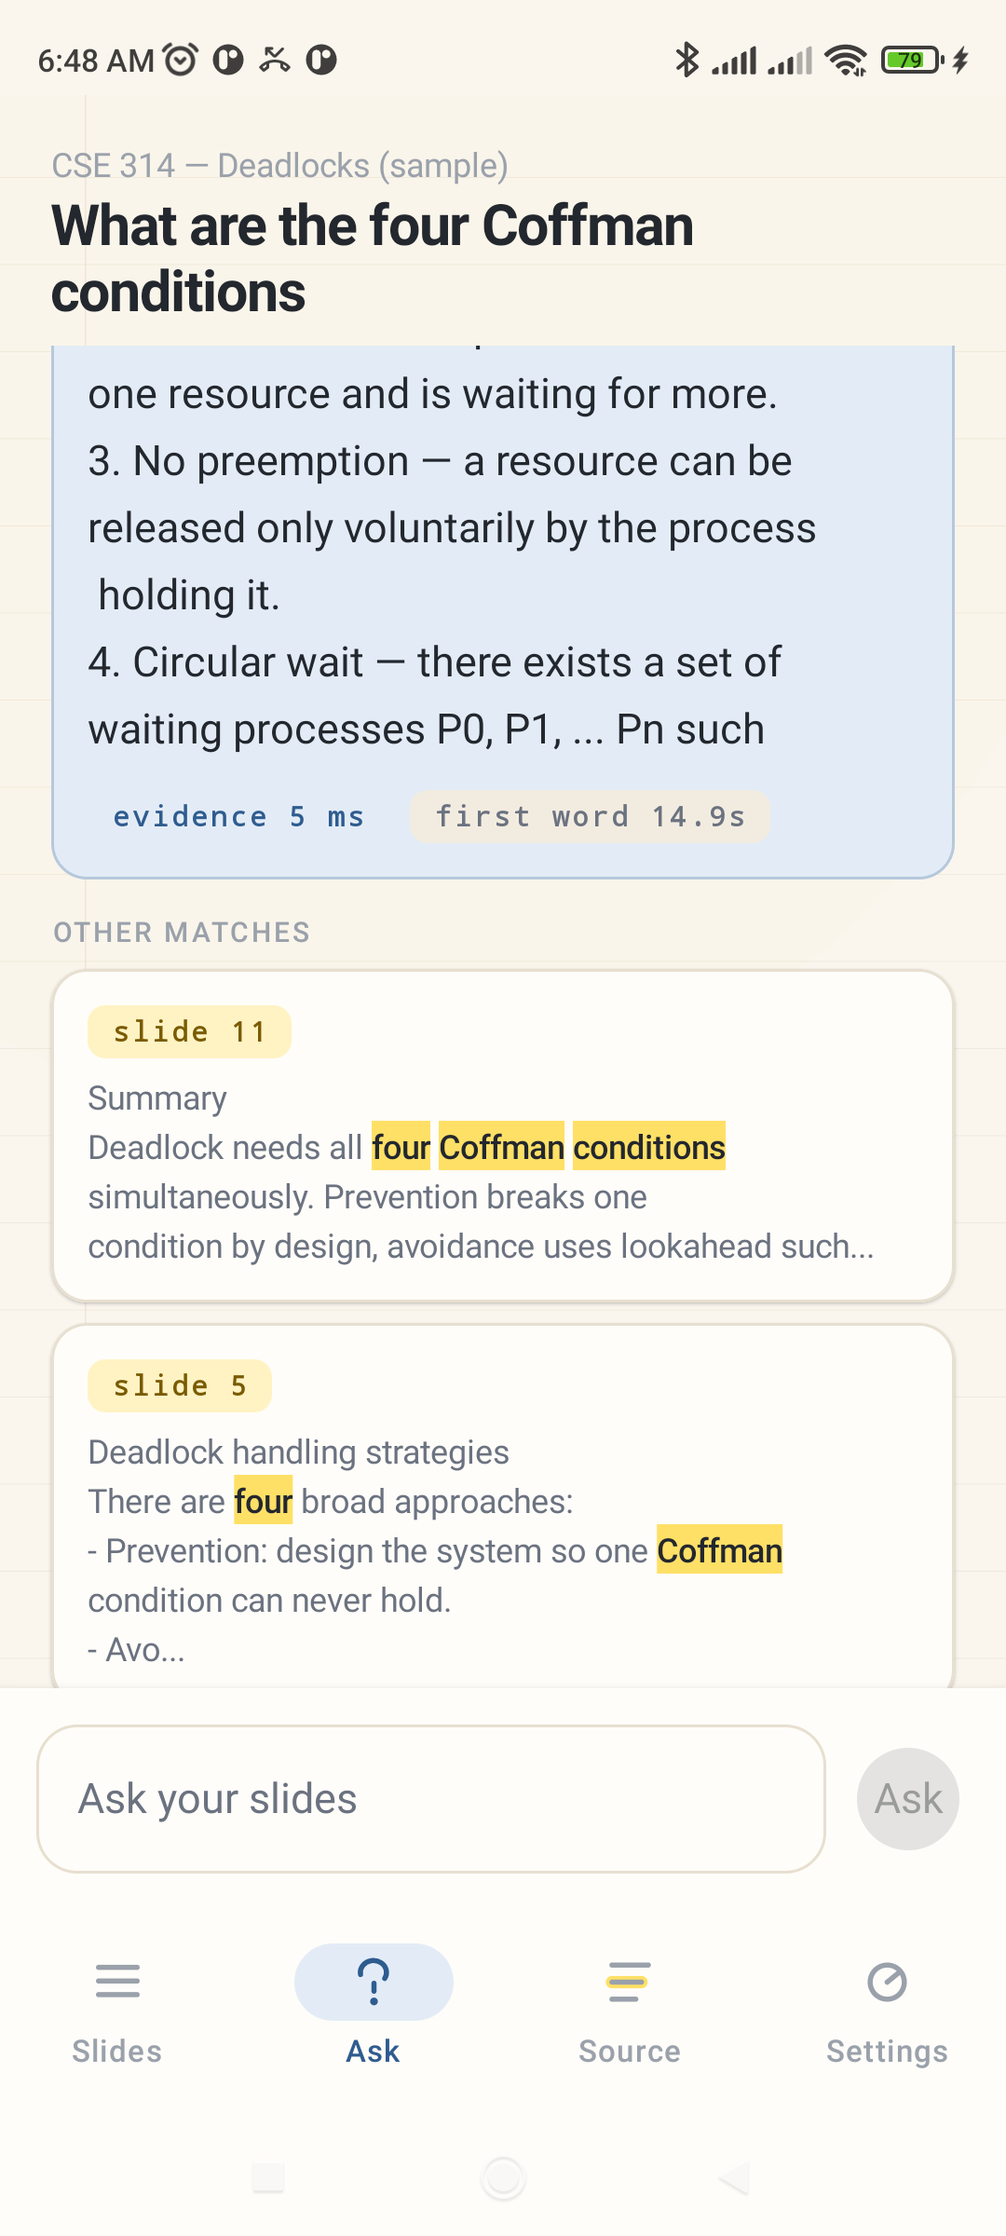
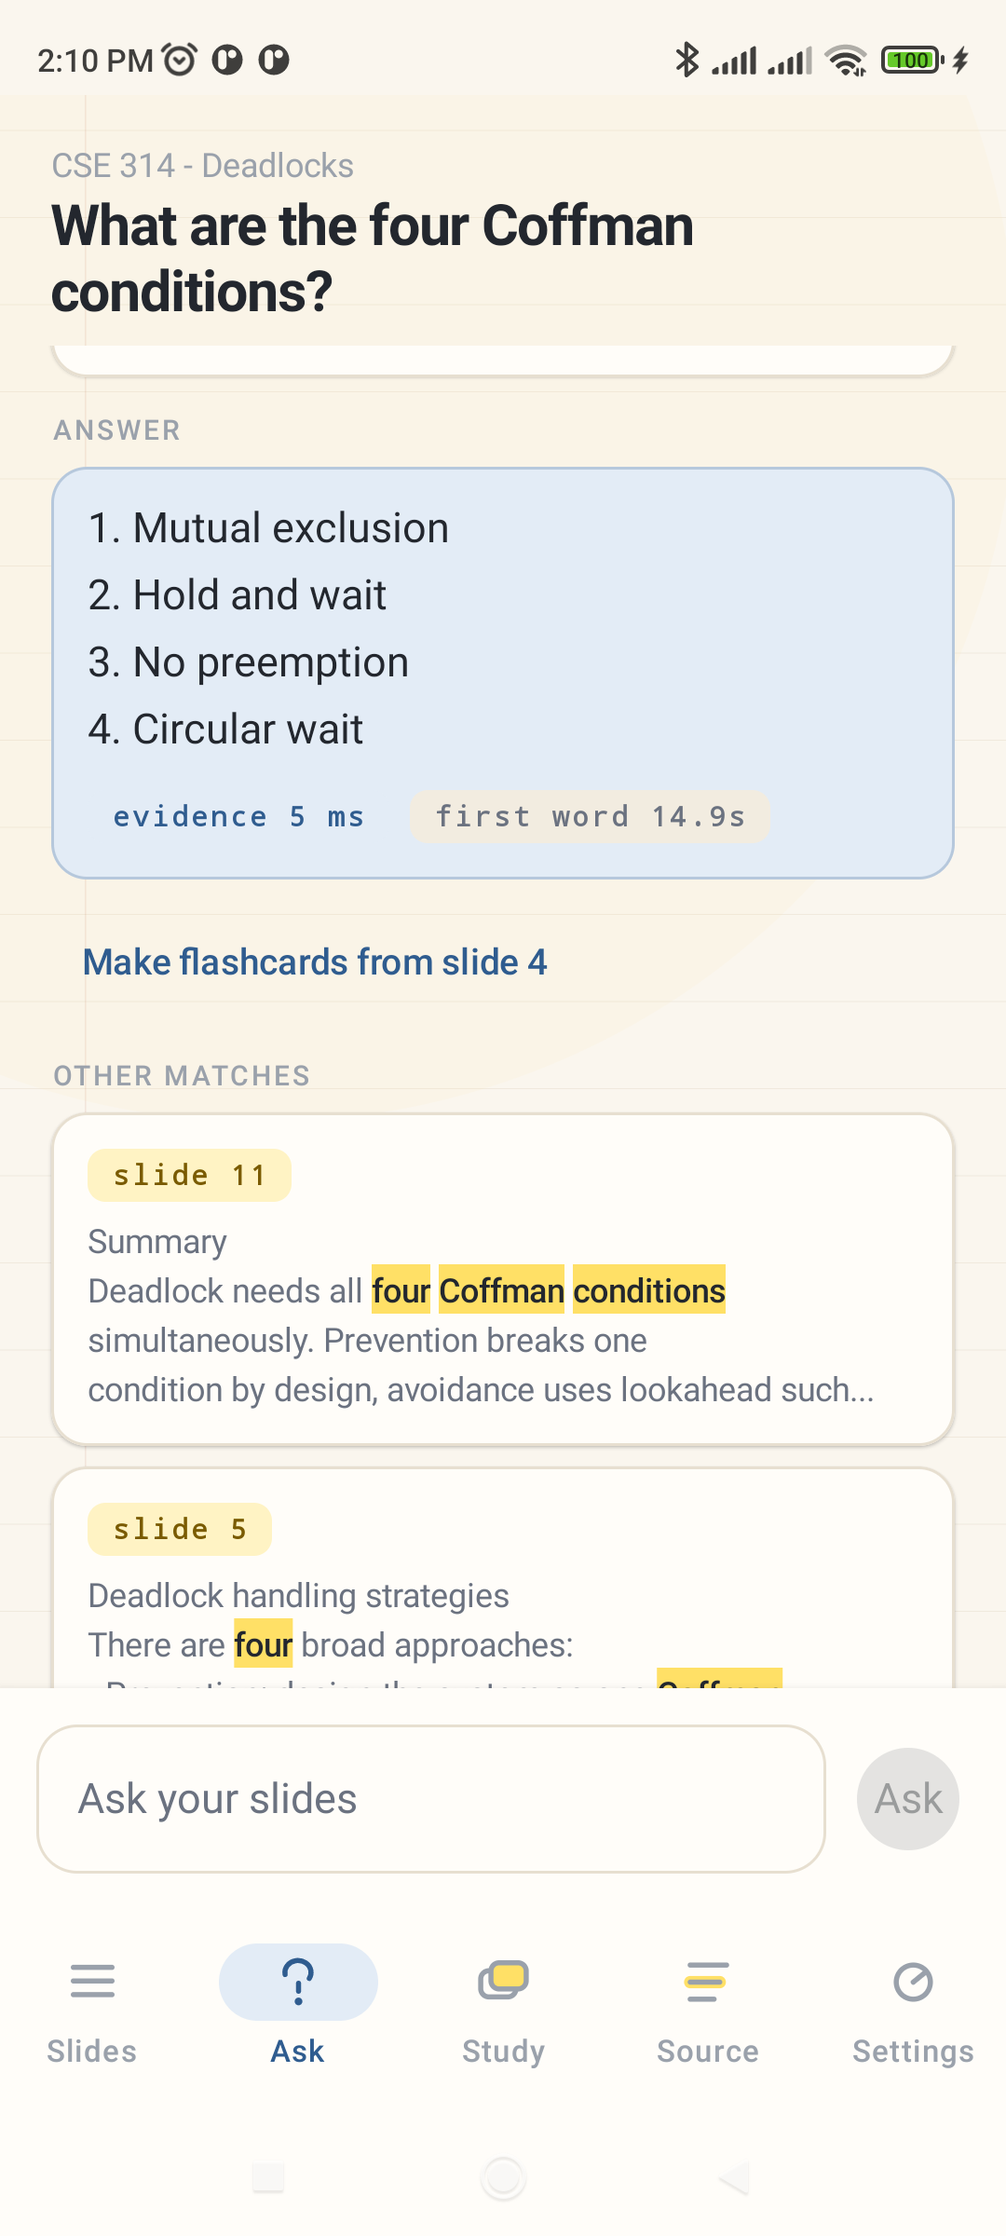
Rewrite the README around Cram, and document how to reproduce the numbers
The README still described the speech agent. Rewritten around what the app
actually is, keeping the measurements that still hold - the LLM engine is
unchanged, so the KleidiAI A/B, the thread cliff, the cluster comparison and
the Q4_0 repack finding all carry over. The Whisper and HetPipe sections are
gone with the feature they described.

Added the measurement that shaped this app specifically: prefill runs at only
about twice decode on this CPU, not the 10-50x a desktop GPU gives, which is
why the design retrieves many passages and sends few rather than stuffing
context.

docs/REPRODUCE.md is new. The KleidiAI claim is the strongest thing in the
submission and it was previously unfalsifiable by anyone without our exact
setup: both build configurations, the sweep command with its actual
repetition count, how to read a sign-changing difference as noise, and how
to check your own CPU's feature flags. It also says plainly where the claim
stops - on i8mm hardware the guidance is correct, and we want those CSVs.

Screenshots refreshed from the current build.

diff --git a/README.md b/README.md
@@ -1,10 +1,15 @@
-# OmniTalk Edge
+# Cram
 
-**An offline AI agent that holds a goal-directed conversation in a language you don't speak — on a 2020 budget phone, in airplane mode, on the CPU.**
+**Ask your lecture slides a question and get an answer with the slide number, offline, on a 2020 budget phone.**
 
-You give it a goal, not a sentence. *"Find out when the bus leaves, whether it has AC, and the price."* It speaks to the other person in their language, tracks which facts it still needs in a state machine, asks its own follow-up questions, and hands you an English summary.
+Open a PDF of a lecture. Ask it anything. Cram finds the passage that answers you, shows you which slide it came from, and writes the answer from that passage — no network, no account, no upload. Then it turns the same slides into flashcards you can revise from.
 
 Built and measured on a **Poco M2 Pro** — Snapdragon 720G, 2× Cortex-A76 + 6× Cortex-A55, **Armv8.2-A with no i8mm, no SVE, no SME, no NPU path**, 6 GB RAM. Not a flagship. The phone most of the world is actually holding.
+
+| | | |
+|---|---|---|
+| ![Asking a question](bench/results/ui_ask.png) | ![Flashcards](bench/results/ui_cards.png) | ![Settings](bench/results/ui_settings.png) |
+| Answer, with the slide it came from | Cards made from the slides you chose | What it measured about your phone |
 
 ---
 
@@ -31,13 +36,35 @@ Differences of ±7% **with no consistent sign** — decode is marginally *faster
 
 **The cliff falls straight through the mid-tier install base.** If you are deploying to Armv8.2-A phones, KleidiAI will not save you; the gains have to come from somewhere else.
 
+The app tells you this about *your* phone, on the Settings screen, rather than asking you to take our word for it.
+
 > **Scope, stated honestly:** the Q4_0/Q8_0 guidance *is* correct on i8mm or SME hardware. We are not saying KleidiAI doesn't work — we are saying it doesn't engage here, and "here" is a very large number of phones. Note too that even a "Q4_0" GGUF carries `q6_K` embedding and output tensors, so coverage would be partial even with i8mm.
 
 ![KleidiAI makes no difference on Armv8.2-A](bench/results/chart_kleidiai.png)
 
 ---
 
-## Where the speed actually came from
+## The measurement that shaped the whole app
+
+On a desktop GPU, prefill (reading your prompt) runs 10–50× faster than decode (writing the answer). Every "just stuff more context in" RAG design assumes that ratio.
+
+**On this CPU, prefill runs at roughly twice decode — about 14 ms per character of prompt.**
+
+That single number rules out the standard approach. Retrieving eight passages and sending them all would cost half a minute before the first word appeared. So Cram is built the other way around:
+
+- **Retrieve many, send few.** BM25 ranks every passage in the deck in **1–7 ms**; only the best one or two are ever paid for in tokens.
+- **Greedy budget allocation.** The top passage takes as much of the character budget as it needs, and the runner-up gets whatever is left — rather than splitting evenly, which truncated the winner to make room for a passage that wasn't going to be used.
+- **Evidence first.** The matching slide text appears while the model is still writing. The retrieval *is* the answer for most questions; the model is there to phrase it.
+
+First word went from **34.5 s to ~11 s** — 3× — with retrieval itself never exceeding 7 ms.
+
+### The app sizes itself to the phone it is on
+
+A budget baked in on our device is wrong on every other one. At startup Cram times a real prefill and derives its own prompt budget from the result. The Settings screen shows the measurement, the values chosen from it, and lets you override them with the cost of each choice in seconds.
+
+---
+
+## Where the rest of the speed came from
 
 ### More threads is not more speed
 
@@ -53,7 +80,7 @@ Differences of ±7% **with no consistent sign** — decode is marginally *faster
 Two results worth carrying away:
 
 1. **Using all 8 cores makes decode 58% slower than using 6.** Every layer ends in a barrier, so the two fast A76s spend their time waiting on the six slow A55s. Adding cores adds stalls.
-2. **Prefill and decode want opposite thread counts** — prefill is compute-bound and scales to 8, decode is memory-bound and peaks at 6. llama.cpp exposes both (`n_threads`, `n_threads_batch`), so we run 6 and 8 respectively.
+2. **Prefill and decode want opposite thread counts** — prefill is compute-bound and scales to 8, decode is memory-bound and peaks at 6. llama.cpp exposes both (`n_threads`, `n_threads_batch`), so we run 6 and 8 respectively. This matters more here than in a chat app: reading the slides and writing the answer are separate phases of every single query.
 
 ### Two big cores beat all six little ones
 
@@ -61,27 +88,7 @@ Two results worth carrying away:
 
 The A76 pair delivers **2.5× the decode throughput of the entire A55 cluster** (8.64 vs 3.41 tok/s). This also corrected our own plan, which assumed decode belonged pinned to the big cluster. It doesn't: 6 unpinned threads (10.95) beat 2 pinned big threads (8.64), because the little cores do contribute real work at this model size.
 
-### The clusters genuinely run in parallel
-
-This is the result the whole architecture rests on:
-
-| | prefill | decode |
-|---|---:|---:|
-| LLM alone, big cluster | 12.89 | 8.74 |
-| LLM on big **+ Whisper hammering the LITTLE cluster** | 12.91 | 8.72 |
-
-**99.8% of solo throughput.** Running speech recognition on the A55s costs the language model essentially nothing — so ASR can transcribe *while the user is still speaking* rather than after.
-
-### Speech recognition has to be `tiny`
-
-![Whisper real-time factor](bench/results/chart_whisper_rtf.png)
-
-| model | threads | RTF |
-|---|---:|---:|
-| tiny q5_1 | 6 | **0.459** ✅ |
-| base q5_1 | 6 | 0.915 ❌ |
-
-`base` is technically under real time but has no headroom — it would fall behind the moment the CPU warms up or the LLM contends for cache. We ship `tiny` and record the accuracy cost in [docs/LANGUAGES.md](docs/LANGUAGES.md).
+> **A constraint worth knowing:** GGML fixes a thread pool's CPU affinity when the pool is created, and worker threads inherit it from whoever calls the load. Affinity must be set *before* the model loads, on the thread that will own it — and cannot be changed afterwards.
 
 ### Q4_0 over Q4_K_M — but not for the reason usually given
 
@@ -89,50 +96,28 @@ Q4_0 averages **18.1 tok/s prefill vs 15.7 for Q4_K_M (+15%)** — and that hold
 
 ---
 
-## Architecture — HetPipe
+## Getting the answer right, not just fast
 
-A 2 big + 6 LITTLE split is an awkward shape. Give every thread to one model and most of the chip idles; give all 8 threads to decode and it gets *slower*. HetPipe treats the clusters as two pools:
+A fast wrong answer at 2 a.m. is worse than a slow right one. Three things Cram does that a generic PDF chatbot does not:
 
-```
-NAIVE                                         time ──►
- record ████████
-                ASR ██████
-                          prefill ███
-                                     decode ████████
-                                                     TTS ███ ▶
+**Headings are ranked, not just matched.** Slide decks are written as "title, then content", so a slide called *The four Coffman conditions* is almost certainly the answer to *what are the four Coffman conditions*. Plain BM25 ranked a short Summary slide above the real definition, because length normalisation punished the longer slide that actually held the list. Heading terms and list structure carry extra weight.
 
-HETPIPE
- record ████████
-   LITTLE  ASR ▓▓ ▓▓ ▓▓ ▓▓   (chunked, during capture)
-   BIG          prefill ▓▓▓▓▓ (speculative, on partial transcript)
-   BIG                  decode ████
-   TTS                    ▶ speaks as soon as the question is complete
-```
+**The budget is floored, not minimised.** Tuning purely for speed drove the character budget down to ~400 — not enough to hold a four-item list, so the model answered quickly and *invented two of the four conditions*. The floor is now 900 characters, and the Settings ladder only climbs from there. Speed that costs correctness isn't a saving.
 
-| Worker | Cores | Threads |
-|---|---|---|
-| ASR (whisper.cpp) | pinned LITTLE `0x3F` | 6 |
-| LLM (llama.cpp) | unpinned | 6 decode / 8 prefill |
+**Cards are checked before they're shown.** A card whose back merely restates its front teaches nothing, and a slide that is only a list of bare terms tempts a 1B model into producing exactly that. Those are dropped rather than padded out. Every card and every answer carries the slide it came from, so you can check the working.
 
-> **A constraint worth knowing:** GGML fixes a thread pool's CPU affinity when the pool is created, and worker threads inherit it from whoever calls the load. Affinity must therefore be set *before* the model loads, on the thread that will own it — and it cannot be changed afterwards. Our original design called for switching the LLM to all-core once ASR finished; that is not possible, and the code says so where it would otherwise look like an omission.
-
-Latency work beyond scheduling:
-
-- **Grammar field order is an optimization.** The GBNF emits `q` (the question) *first*, so TTS can start after ~12 tokens instead of ~60. At ~9 tok/s, putting the slots first would delay speech by roughly 5 seconds.
-- **Single-letter JSON keys.** `"next_question"` costs ~4 tokens per turn; `"q"` costs 1.
-- **The static prompt prefix is pre-warmed** while the user picks an objective, so turn 1 prefills ~40 tokens instead of ~250.
-- **KV cache is retained across turns** — only new text is prefilled.
+The sample deck ships with the app, so the first thing you see is a real question answered from real slides.
 
 ---
 
 ## Try it
 
 ```bash
-git clone --recursive https://github.com/<you>/omnitalk-edge && cd omnitalk-edge
+git clone --recursive https://github.com/ashfaqstu/cram-offline && cd cram-offline
 ./scripts/fetch_models.sh            # downloads + sha256-verifies weights (never committed)
 cd android && ./gradlew :app:assembleRelease
 adb install -r app/build/outputs/apk/release/app-release.apk
-adb push ../models/Llama-3.2-1B-Instruct-Q4_0.gguf ../models/ggml-tiny-q5_1.bin \
+adb push ../models/Llama-3.2-1B-Instruct-Q4_0.gguf \
          /sdcard/Android/data/dev.omnitalk/files/
 ```
 
@@ -140,14 +125,15 @@ Models live in app-specific external storage, so there is no runtime permission 
 
 **Reproduce the benchmarks on your own Arm phone:** [docs/REPRODUCE.md](docs/REPRODUCE.md). Open an issue with your device's CSV and we'll add it to the table.
 
-The app reports what it detects about your silicon on launch — core split, clock, `dotprod`/`i8mm`, and whether KleidiAI can engage at all.
+**Privacy is structural, not a promise.** The app declares no internet permission and no storage permission. It cannot send your documents anywhere, even by mistake.
 
 ---
 
 ## What we cut, and why
 
-- **Camera OCR** — a multi-day Paddle-Lite integration contributing nothing to the optimization thesis.
-- **A bundled neural TTS (Piper / sherpa-onnx)** — TTS is not our optimization target; the platform engine is genuinely on-device and costs a day less.
+- **A vector database and an embedding model.** BM25 answers these decks in 1–7 ms. An embedding model would add a second model to load, hundreds of megabytes of RAM, and a prefill cost per chunk — to improve ranking on a corpus small enough that lexical overlap is already decisive.
+- **Multi-turn chat.** Every retained turn is prompt tokens re-read at 14 ms per character. A study tool is asked questions, not engaged in conversation.
+- **Mind maps.** A diagram is a lot of generated tokens for something a reader skims once; the slide list already gives the structure.
 - **ExecuTorch** — no grammar-constrained decoding, and a ~1.9 GB RSS `.pte` does not fit safely in 6 GB.
 - **Arm Performix** — it targets Neoverse server platforms, not phones.
 
@@ -157,4 +143,4 @@ The app reports what it detects about your silicon on launch — core split, clo
 
 Apache-2.0 — see [LICENSE](LICENSE) and [NOTICE](NOTICE).
 
-**Built with Llama.** Model weights are not redistributed; `scripts/fetch_models.sh` downloads and verifies them. llama.cpp, whisper.cpp and ggml are MIT; KleidiAI is Apache-2.0 and vendored under `third_party/` so the native build never needs the network.
+**Built with Llama.** Model weights are not redistributed; `scripts/fetch_models.sh` downloads and verifies them. llama.cpp and ggml are MIT; KleidiAI is Apache-2.0 and vendored under `third_party/` so the native build never needs the network. PDF text extraction uses PdfBox-Android (Apache-2.0).

diff --git a/docs/REPRODUCE.md b/docs/REPRODUCE.md
@@ -1,0 +1,125 @@
+# Reproducing the measurements
+
+Every number in the README came from `bench/otbench.ps1` running `llama-bench` on a physical phone over adb. This document is enough to re-run it on yours and disagree with us.
+
+Reported device: **Poco M2 Pro** (Snapdragon 720G, 2× Cortex-A76 @ 2.3 GHz + 6× Cortex-A55, Armv8.2-A, 6 GB RAM), Android 12 / MIUI. Raw output is in [`bench/results/`](../bench/results/); the device's own `/proc/cpuinfo` and feature flags are in `device_info_POCO_M2_Pro.txt`.
+
+---
+
+## What you need
+
+- An arm64 Android phone with USB debugging on
+- `adb` on PATH
+- The Android NDK (r26+) to build the native binaries
+- ~3 GB free on the phone's `/data/local/tmp`
+
+## 1. Build two llama-bench binaries
+
+The KleidiAI claim rests on comparing an identical build with the library on and off, so build both from the same source tree:
+
+```bash
+git submodule update --init --recursive
+
+# WITH KleidiAI
+cmake -B build-kleidi third_party/llama.cpp \
+  -DCMAKE_TOOLCHAIN_FILE=$ANDROID_NDK/build/cmake/android.toolchain.cmake \
+  -DANDROID_ABI=arm64-v8a -DANDROID_PLATFORM=android-28 \
+  -DGGML_CPU_KLEIDIAI=ON -DLLAMA_CURL=OFF -DCMAKE_BUILD_TYPE=Release
+cmake --build build-kleidi --target llama-bench -j 6
+
+# WITHOUT KleidiAI
+cmake -B build-nokleidi third_party/llama.cpp \
+  -DCMAKE_TOOLCHAIN_FILE=$ANDROID_NDK/build/cmake/android.toolchain.cmake \
+  -DANDROID_ABI=arm64-v8a -DANDROID_PLATFORM=android-28 \
+  -DGGML_CPU_KLEIDIAI=OFF -DLLAMA_CURL=OFF -DCMAKE_BUILD_TYPE=Release
+cmake --build build-nokleidi --target llama-bench -j 6
+```
+
+Two build notes that cost us an afternoon each:
+
+- `LLVM ERROR: IO failure on output stream: No space left on device` reads like an NDK bug and is exactly what it says — the linker needs several GB of scratch. Building with `-g0 -s` cut our binaries from 196 MB to 4.7 MB.
+- `ninja: error: unknown target 'llama-cli'` — the CLI tools sit inside llama.cpp's `if (LLAMA_BUILD_SERVER)` block, so configuring with `-DLLAMA_BUILD_SERVER=OFF` removes them. `llama-bench` is unaffected, but add `-DLLAMA_BUILD_SERVER=ON` if you want the CLI too.
+
+Our own build script, with the exact flags used for the published numbers, is [`scripts/build_native.ps1`](../scripts/build_native.ps1).
+
+## 2. Push everything to the phone
+
+```bash
+./scripts/fetch_models.sh          # Q4_0 and Q4_K_M weights, sha256-verified
+adb shell mkdir -p /data/local/tmp/ot
+adb push build-kleidi/bin/llama-bench   /data/local/tmp/ot/llama-bench
+adb push build-nokleidi/bin/llama-bench /data/local/tmp/ot/llama-bench-nokleidi
+adb push models/Llama-3.2-1B-Instruct-Q4_0.gguf   /data/local/tmp/ot/
+adb push models/Llama-3.2-1B-Instruct-Q4_K_M.gguf /data/local/tmp/ot/
+adb shell chmod +x /data/local/tmp/ot/llama-bench /data/local/tmp/ot/llama-bench-nokleidi
+```
+
+## 3. Run the sweep
+
+```powershell
+pwsh bench/otbench.ps1        # writes bench/results/sweep_<device>.csv
+python bench/analyze.py       # writes TABLES.md and the charts
+```
+
+Each cell is `llama-bench -p 128 -n 32 -r 3` — 128-token prefill, 32-token decode, **3 repetitions**, and llama-bench reports its own mean ± stddev. `pp128` is prefill throughput, `tg32` is decode.
+
+**Keep the phone cool and plugged in.** Thermal throttling on a passively-cooled midrange SoC moves these numbers by more than the effects being measured. We saw prefill vary between 14 and 19 tok/s on the same build depending on how warm the phone was, which is why the KleidiAI comparison is run back-to-back rather than hours apart.
+
+---
+
+## Reading the results
+
+### The KleidiAI comparison
+
+```bash
+grep "^B," bench/results/sweep_*.csv
+```
+
+You are looking for whether `llama-bench` and `llama-bench-nokleidi` differ **consistently and in one direction**. Ours did not: Q4_0 prefill was 7% faster with KleidiAI on, Q4_0 decode was 4% faster with it *off*, and Q4_K_M prefill was 5% faster with it *off*. Effects that change sign between measurements are noise.
+
+Confirm the mechanism rather than inferring it from timings — the library announces its own refusal:
+
+```bash
+adb shell "cd /data/local/tmp/ot && ./llama-bench -m Llama-3.2-1B-Instruct-Q4_0.gguf -p 8 -n 8 2>&1 | grep -i kleidi"
+```
+
+On Armv8.2-A this prints `no compatible q4 kernels found for CPU features mask 1`. On a phone with i8mm (Cortex-A710 / X2 and later, roughly 2021 flagships onward) it will select a kernel instead — **and there the guidance is correct.** If you have such a device, we would genuinely like your CSV.
+
+Check what your CPU actually has:
+
+```bash
+adb shell grep -m1 Features /proc/cpuinfo
+```
+
+`asimddp` is dotprod, which Armv8.2-A has. `i8mm` and `sve`/`sme` are the ones that matter for KleidiAI's int4 path.
+
+### The thread cliff
+
+```bash
+grep "^A,.*none" bench/results/sweep_*.csv
+```
+
+The result to look for is decode collapsing at `-t 8` while prefill peaks there. On our 2+6 chip decode fell 58% (10.95 → 4.57 tok/s). The mechanism is a per-layer barrier: the two fast cores finish and wait on the six slow ones, so the eighth thread adds stalls rather than work.
+
+Phones with a different cluster split will put the cliff somewhere else — that is the point. The app measures its own thread counts at startup rather than shipping ours.
+
+### Affinity
+
+`affinity=none` is unpinned, `c0` is the two big cores, `3f` is the six LITTLE cores (`taskset` masks). The LITTLE cluster alone manages 3.41 tok/s decode against the big pair's 8.64 — but 6 *unpinned* threads beat both at 10.95, because the little cores do contribute real work at 1B.
+
+---
+
+## Measuring the app itself, not the benchmark
+
+`llama-bench` measures the engine. Cram's user-visible latency also includes PDF extraction, BM25 retrieval and prompt assembly, so the app instruments and displays those itself:
+
+- **Every answer** shows `evidence N ms` (retrieval) and `first word N.Ns` (end-to-end).
+- **Settings → Measured on first run** shows the prefill throughput the app timed on your phone at startup, and the prompt budget it derived from it.
+
+Those are live numbers from your own device, not ours. If the app feels slow on your phone, that screen tells you which half is responsible.
+
+---
+
+## If your numbers disagree with ours
+
+Please open an issue with `bench/results/sweep_<device>.csv` and the output of `adb shell grep -m1 Features /proc/cpuinfo`. Disagreement across devices is the useful outcome here — the entire claim is that one hard-coded configuration cannot be right for all Arm phones.
